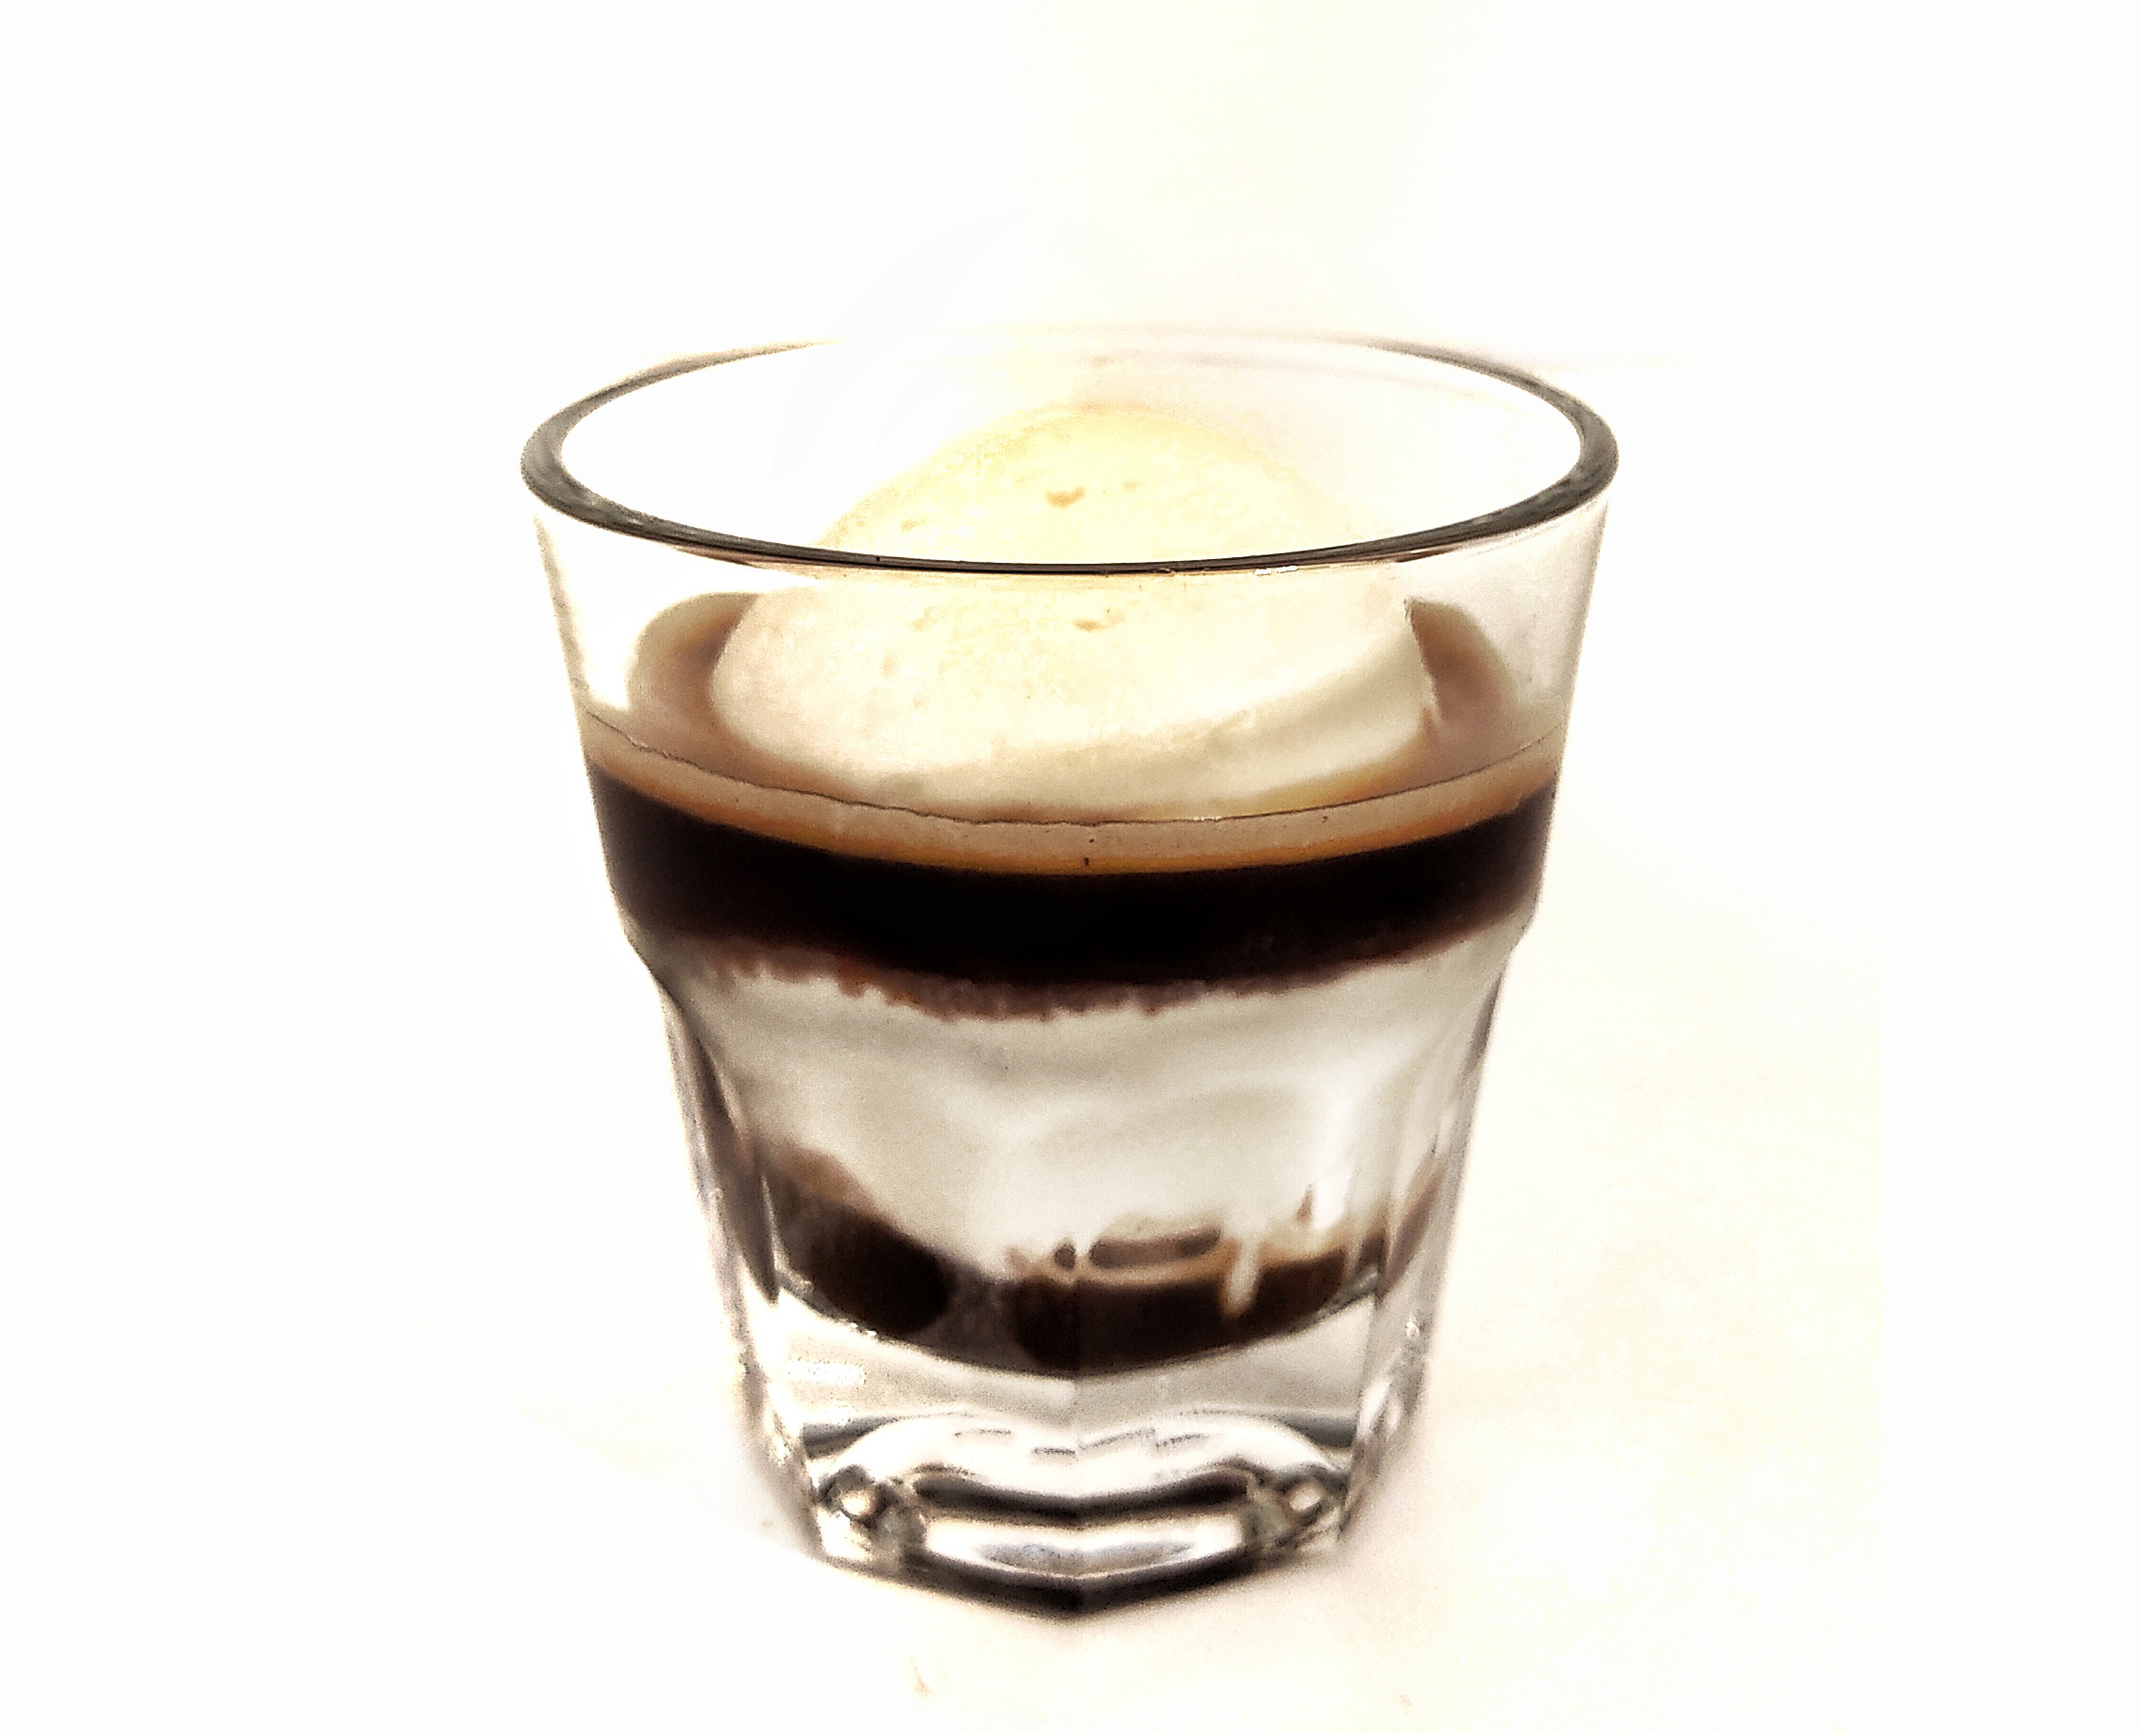
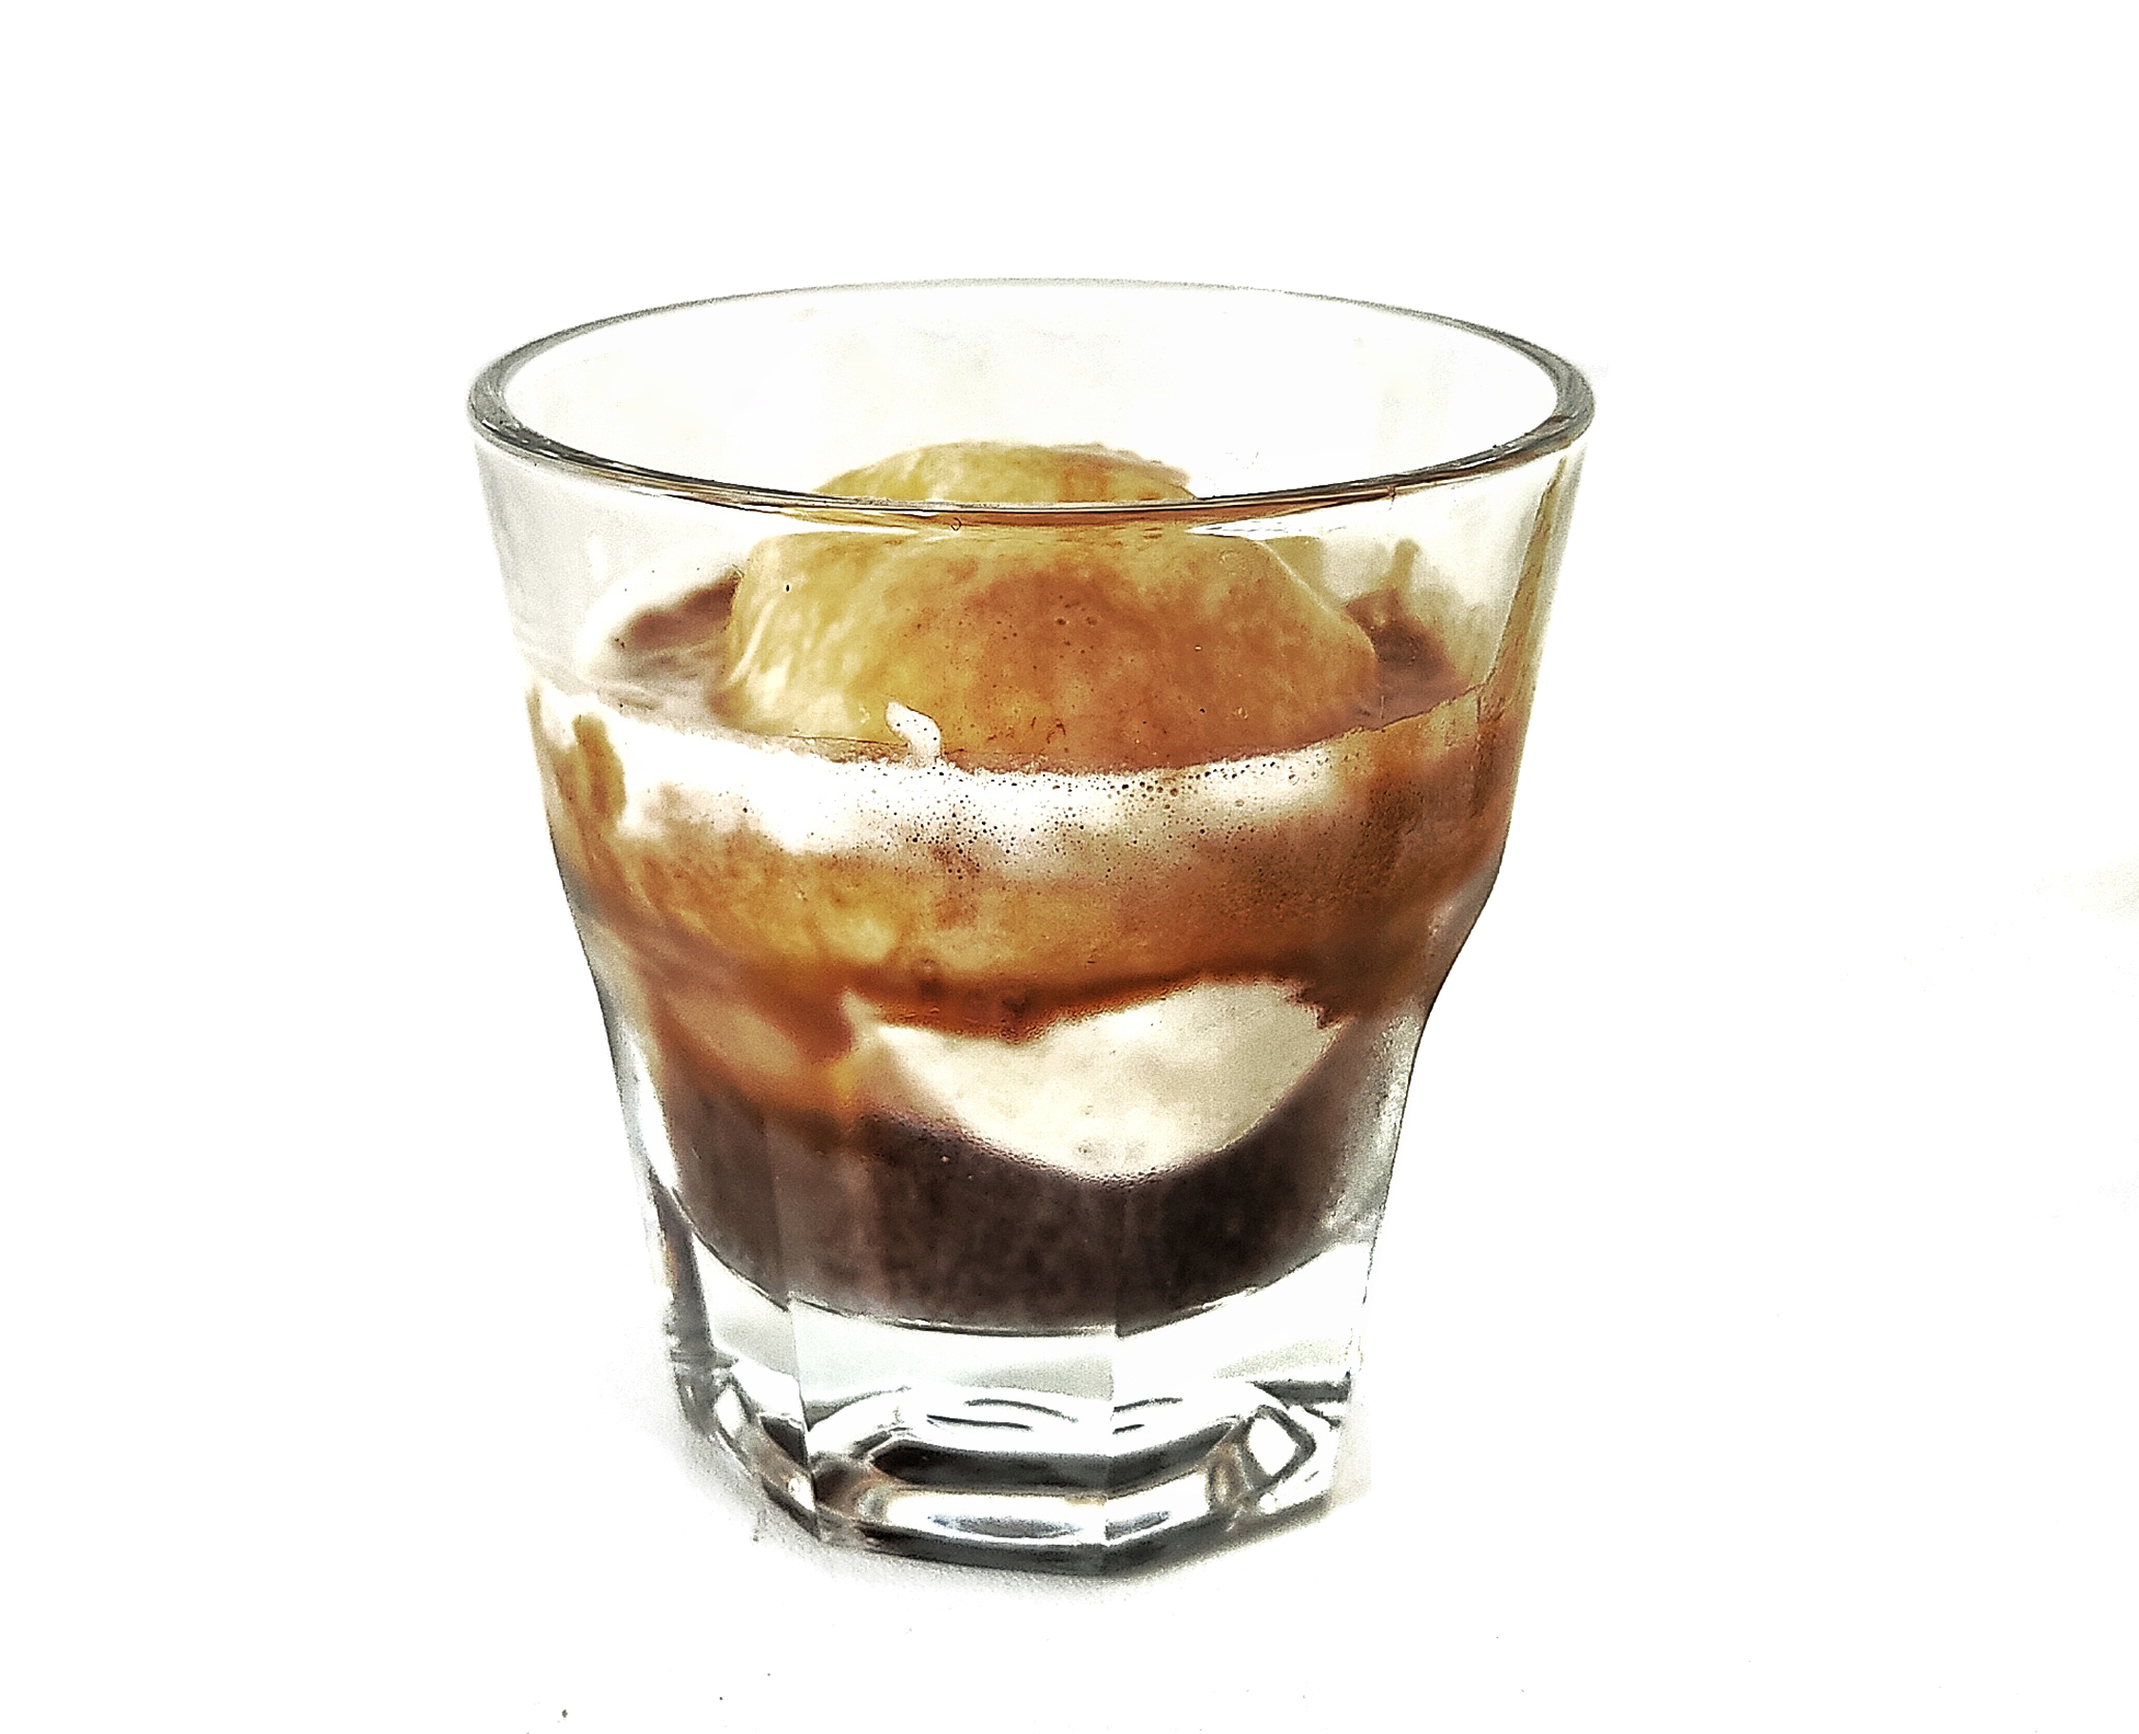
arreglos

Changed region(s): [[0.2178, 0.1562, 0.7778, 0.9688], [0.7467, 0.7188, 0.7778, 0.7812]]

diff --git a/pages/menu.html b/pages/menu.html
@@ -523,10 +523,10 @@
               <div class="accordion-body">Tenemos estos dulces:
 
                 <ul class="listas">
-                  <li>Carrot</li>
-                  <li>Cafes con leche de almendra </li>
-                  <li>Budín</li>
-                  <li>Alfajores</li>
+                  <li>Carrot.</li>
+                  <li>Leche de almendra elaborada por la casa.</li>
+                  <li>Budín.</li>
+                  <li>Alfajores.</li>
                 </ul>
 
               </div>
@@ -544,10 +544,10 @@
               <div class="accordion-body">
 
                 <ul class="listas">
-                  <li>Pasta farola de membrillo o dulce de leche</li>
-                  <li>Alfajor dulce de leche</li>
-                  <li>Alfajor de maicena</li>
-                  <li>Scones</li>
+                  <li>Pasta farola de membrillo o dulce de leche.</li>
+                  <li>Alfajor dulce de leche.</li>
+                  <li>Alfajor de maicena.</li>
+                  <li>Scones.</li>
                 </ul>
 
               </div>
@@ -557,16 +557,12 @@
             <h4 class="accordion-header" id="flush-headingThree">
               <button class="accordion-button collapsed" type="button" data-bs-toggle="collapse"
                 data-bs-target="#flush-collapseThree" aria-expanded="false" aria-controls="flush-collapseThree">
-                ?
+               Qué es el Shakshuka?
               </button>
             </h4>
             <div id="flush-collapseThree" class="accordion-collapse collapse" aria-labelledby="flush-headingThree"
               data-bs-parent="#accordionFlushExample">
-              <div class="accordion-body">Placeholder content for this accordion, which is intended to
-                demonstrate the <code>.accordion-flush</code> class. This is the third item's accordion
-                body. Nothing more exciting happening here in terms of content, but just filling up the
-                space to make it look, at least at first glance, a bit more representative of how this would
-                look in a real-world application.</div>
+              <div class="accordion-body">El shakshuka es un plato vegetariano procedente de Oriente Medio preparado con tomates guisados, especias, huevos, ajo y especias (a menudo incluyen el comino, la cúrcuma y chile). Se acompaña con pan de campo, se disfruta mojar un poco el pan en la yema del huevo y luego en la salsa que se forma con las verduras.</div>
             </div>
           </div>
         </div>

diff --git a/pages/cafe.html b/pages/cafe.html
@@ -99,7 +99,8 @@
 
             <div class="cafe-textos">
                 <h2>Double white</h2>
-                <p>Espresso doble + syrup de chocolate blanco y coco.</p>
+                <p class="p-importante">Espresso doble + syrup de chocolate blanco y coco.</p>
+                <p class="p-cafe">Base de infusion de coco y chocolate blanco. Coronando un espresso doble, perfecto para balancear los sabores Y agregar un toque dulce a tu bebida.</p>
             </div>
 
 
@@ -115,12 +116,13 @@
         <section class="section-cafe">
 
             <div class="cafe-multimedia">
-                <img src="../public/cafe/tonnic1.jpeg" class="img-cafe" alt="vaso con cafe tonic con fondo blanco">
+                <img src="../public/cafe/tonnic2.jpeg" class="img-cafe" alt="vaso con cafe tonic con fondo blanco">
             </div>
 
             <div class="cafe-textos">
                 <h2>Espresso tonic</h2>
-                <p>Espresso doble + tonica.</p>
+                <p class="p-importante">Espresso doble + tonica.</p>
+                <p class="p-cafe">Un café frio con un toque más amargo y el burbujeo refrescante de la tónica la hace perfecta para el verano. Un cocktail sin alcohol que se va a convertir en tu bebida favorita del verano.</p>
             </div>
 
 
@@ -132,7 +134,8 @@
 
             <div class="cafe-textos">
                 <h2>Affogato</h2>
-                <p>Espresso doble + helado de crema.</p>
+                <p class="p-importante">Espresso doble + helado de crema.</p>
+                <p class="p-cafe">Postre italiano a base de café. Por lo general consiste en una cucharada de helado de vainilla coronada o "ahogada" con un chorro de espresso caliente.</p>
             </div>
 
 
@@ -155,7 +158,8 @@
 
             <div class="cafe-textos">
                 <h2>Iced mint mocca</h2>
-                <p>Espresso doble + leche + syrop de chocolate y menta.</p>
+                <p class="p-importante">Espresso doble + leche + syrop de chocolate y menta.</p>
+                <p class="p-cafe">Infusión de menta en tu syrup preferido de chocolate. Un shot de frescura en tu mocca clásico.</p>
             </div>
 
         </section>

diff --git a/index.html b/index.html
@@ -164,12 +164,8 @@
 
                     <h2>Vivi la experiencia
                         Patrimonio</h2>
-                    <p class="p-section">Lorem ipsum dolor sit amet consectetur adipisicing elit. Quia consequatur quae
-                        recusandae
-                        fuga
-                        enim
-                        non natus omnis. Modi velit, exercitationem expedita ipsum dolore ratione doloremque quidem
-                        molestiae nostrum, ipsa error?</p>
+                    <p class="p-section">Te invitamos a participar de nuestros talleres de latte-art dirigidos por
+                        nuestra barista estrella, ganadora nacional del campeonato de latte-art 2021.</p>
 
                     <!-- BOTON -->
 
@@ -293,6 +289,8 @@
             </div>
 
         </div>
+
+
 
     </footer>
 

diff --git a/pages/taller.html b/pages/taller.html
@@ -190,7 +190,7 @@
 
                         <div id="flush-collapseThree" class="accordion-collapse collapse"
                             aria-labelledby="flush-headingThree" data-bs-parent="#accordionFlushExample">
-                            <div class="accordion-body">Cristi Barista.</div>
+                            <div class="accordion-body">Cristina Sosa. Campeona nacional de latte-art.</div>
                         </div>
                     </div>
                 </div>

diff --git a/css/style.css b/css/style.css
@@ -308,6 +308,9 @@ p {
   width: 70%;
   text-align: center; }
 
+.p-gris {
+  color: #787878; }
+
 .p-section {
   font-family: "Rubik", sans-serif;
   font-size: 1.1em;
@@ -393,6 +396,9 @@ footer {
   background-repeat: no-repeat;
   background-size: 100vw;
   height: 65vw; }
+
+.p-cafe {
+  width: 48%; }
 
 .principal-section-cafe {
   padding: 0 4rem; }

diff --git a/scss/_section-cafe.scss b/scss/_section-cafe.scss
@@ -6,6 +6,10 @@
     background-size: 100vw;
     height: 65vw;
 }
+.p-cafe{
+    width: 48%;
+
+}
 
 .principal-section-cafe {
     padding: 0 4rem;

diff --git a/scss/_main-local.scss b/scss/_main-local.scss
@@ -63,6 +63,10 @@ p {
 
 }
 
+.p-gris {
+    color: #787878;
+}
+
 
 .p-section {
     font-family: $font-S;
